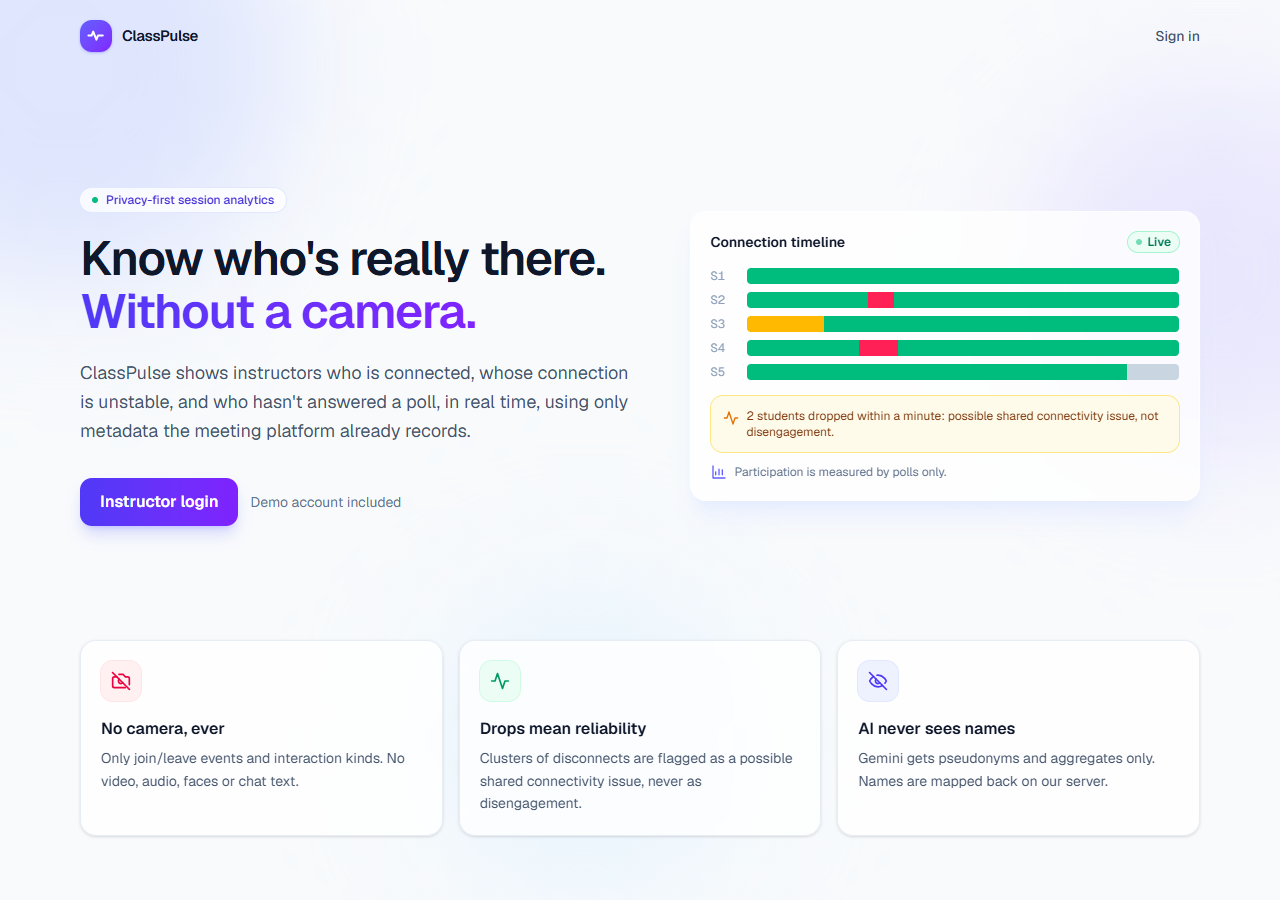
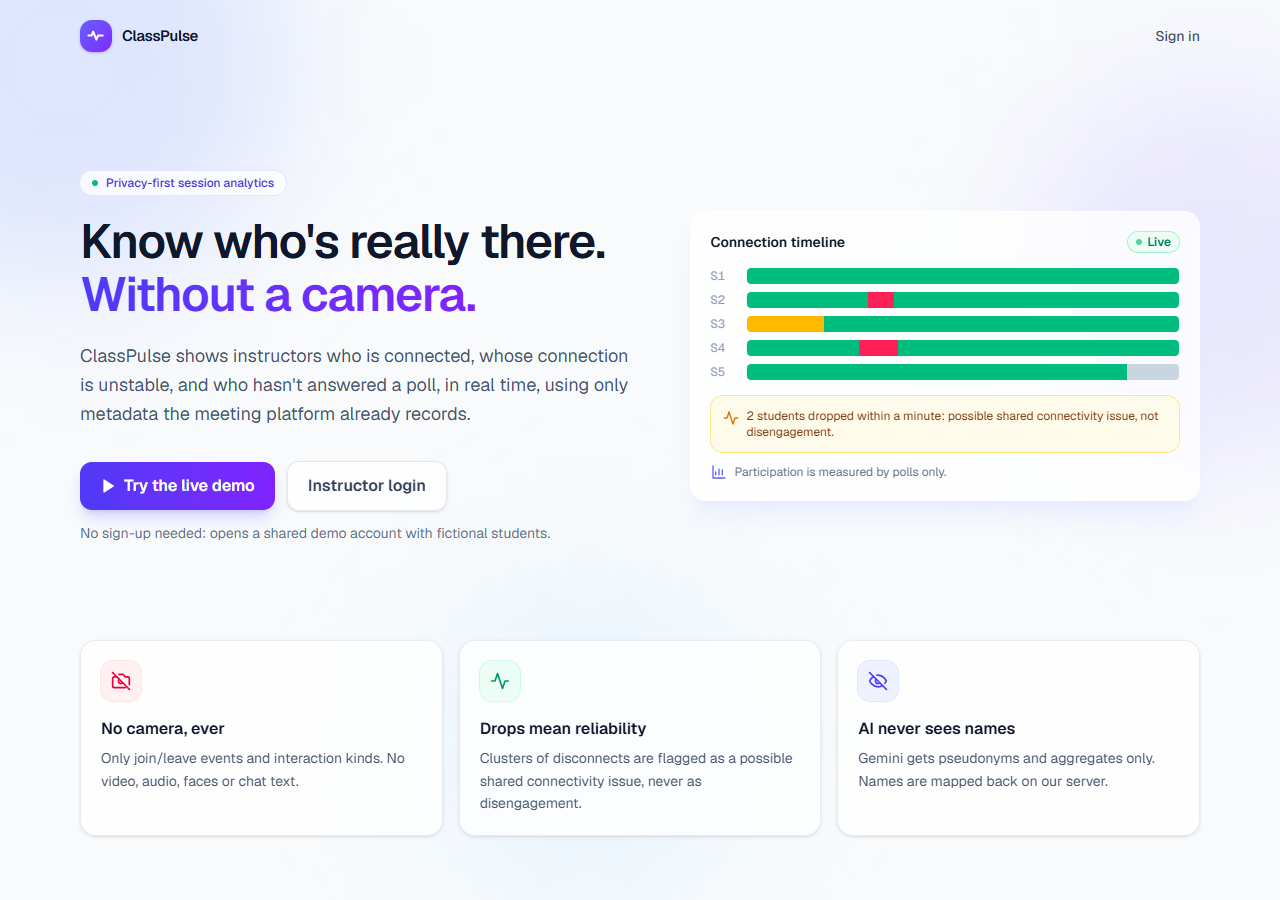
feat: one-click "Try the live demo" sign-in for judges
- demoLogin server action signs in as the shared demo instructor using
  server-only DEMO_INSTRUCTOR_* env vars (demo mode only); the password is
  never sent to the browser
- "Try the live demo" button on the landing page and the login page
- Sign out now uses local scope, so one visitor signing out of the shared
  demo account doesn't log everyone else out
- README: live demo instructions, env var scopes, updated demo flow and
  landing screenshot

Changed region(s): [[0.0625, 0.1867, 0.5, 0.6222]]

diff --git a/app/page.tsx b/app/page.tsx
@@ -1,5 +1,8 @@
 import Link from "next/link";
+import DemoLoginButton from "@/components/DemoLoginButton";
 import { CameraOffIcon, EyeOffIcon, LogoMark, PollIcon, PulseIcon } from "@/components/icons";
+
+const DEMO_MODE = process.env.NEXT_PUBLIC_DEMO_MODE === "true";
 
 const PILLARS = [
   {
@@ -67,14 +70,21 @@ export default function Home() {
             a poll, in real time, using only metadata the meeting platform already records.
           </p>
           <div className="mt-8 flex flex-wrap items-center gap-3">
+            {DEMO_MODE && <DemoLoginButton />}
             <Link
               href="/login"
-              className="inline-flex items-center gap-2 rounded-xl bg-gradient-to-r from-indigo-600 to-violet-600 px-5 py-3 font-semibold text-white shadow-lg shadow-indigo-500/25 transition hover:shadow-xl hover:shadow-indigo-500/30"
+              className={
+                DEMO_MODE
+                  ? "inline-flex items-center gap-2 rounded-xl border border-slate-200 bg-white/80 px-5 py-3 font-semibold text-slate-700 shadow-sm backdrop-blur transition hover:border-indigo-200 hover:text-indigo-700"
+                  : "inline-flex items-center gap-2 rounded-xl bg-gradient-to-r from-indigo-600 to-violet-600 px-5 py-3 font-semibold text-white shadow-lg shadow-indigo-500/25 transition hover:shadow-xl hover:shadow-indigo-500/30"
+              }
             >
               Instructor login
             </Link>
-            <span className="text-sm text-slate-500">Demo account included</span>
           </div>
+          {DEMO_MODE && (
+            <p className="mt-3 text-sm text-slate-500">No sign-up needed: opens a shared demo account with fictional students.</p>
+          )}
         </div>
 
         <div className="rounded-2xl border border-white/60 bg-white/80 p-5 shadow-xl shadow-indigo-100/60 backdrop-blur">

diff --git a/components/DemoLoginButton.tsx b/components/DemoLoginButton.tsx
@@ -1,0 +1,31 @@
+"use client";
+
+// One-click sign-in as the shared demo instructor. Rendered only when NEXT_PUBLIC_DEMO_MODE is "true";
+// the server action checks it again and holds the credentials server-side.
+import { useActionState } from "react";
+import { demoLogin, type LoginState } from "@/app/login/actions";
+import { PlayIcon } from "./icons";
+
+const initialState: LoginState = { error: null };
+
+export default function DemoLoginButton({ className = "" }: { className?: string }) {
+  const [state, formAction, pending] = useActionState(demoLogin, initialState);
+
+  return (
+    <form action={formAction} className={className}>
+      <button
+        type="submit"
+        disabled={pending}
+        className="inline-flex w-full items-center justify-center gap-2 rounded-xl bg-gradient-to-r from-indigo-600 to-violet-600 px-5 py-3 font-semibold text-white shadow-lg shadow-indigo-500/25 transition hover:shadow-xl hover:shadow-indigo-500/30 disabled:opacity-60"
+      >
+        <PlayIcon className="h-4 w-4" fill="currentColor" />
+        {pending ? "Opening the demo…" : "Try the live demo"}
+      </button>
+      {state.error && (
+        <p role="alert" className="mt-2 text-sm text-rose-600">
+          {state.error}
+        </p>
+      )}
+    </form>
+  );
+}

diff --git a/app/login/actions.ts b/app/login/actions.ts
@@ -17,8 +17,30 @@ export async function login(_prev: LoginState, formData: FormData): Promise<Logi
   redirect("/sessions");
 }
 
+/**
+ * One-click sign-in as the shared demo instructor (demo mode only). The credentials are read from
+ * server-only env vars and never sent to the browser.
+ */
+export async function demoLogin(): Promise<LoginState> {
+  const email = process.env.DEMO_INSTRUCTOR_EMAIL;
+  const password = process.env.DEMO_INSTRUCTOR_PASSWORD;
+  if (process.env.NEXT_PUBLIC_DEMO_MODE !== "true" || !email || !password) {
+    return { error: "The live demo isn't available right now." };
+  }
+
+  const supabase = await createClient();
+  const { error } = await supabase.auth.signInWithPassword({ email, password });
+  if (error) {
+    console.error("Demo login failed:", error.message);
+    return { error: "The live demo isn't available right now." };
+  }
+
+  redirect("/sessions");
+}
+
 export async function signOut() {
   const supabase = await createClient();
-  await supabase.auth.signOut();
+  // Local scope: only this browser. The demo account is shared, so a global sign-out would log out everyone.
+  await supabase.auth.signOut({ scope: "local" });
   redirect("/login");
 }

diff --git a/app/login/page.tsx b/app/login/page.tsx
@@ -1,4 +1,5 @@
 import Link from "next/link";
+import DemoLoginButton from "@/components/DemoLoginButton";
 import { LogoMark, ShieldIcon } from "@/components/icons";
 import LoginForm from "./LoginForm";
 
@@ -21,6 +22,17 @@ export default function LoginPage() {
           <div className="mt-6">
             <LoginForm />
           </div>
+          {process.env.NEXT_PUBLIC_DEMO_MODE === "true" && (
+            <>
+              <div className="my-6 flex items-center gap-3 text-xs text-slate-400">
+                <span className="h-px flex-1 bg-slate-200" />
+                or
+                <span className="h-px flex-1 bg-slate-200" />
+              </div>
+              <DemoLoginButton />
+              <p className="mt-2 text-center text-xs text-slate-500">Shared demo account with fictional students.</p>
+            </>
+          )}
         </div>
         <p className="mt-6 flex items-center justify-center gap-1.5 text-xs text-slate-500">
           <ShieldIcon className="h-3.5 w-3.5 text-emerald-600" />

diff --git a/README.md b/README.md
@@ -10,7 +10,7 @@ ClassPulse is a real-time dashboard for instructors teaching live online classes
 
 It uses only metadata the meeting platform already records: join/leave events and the *kind* of interaction (poll response, chat, hand raise). It never touches video, audio, faces or message content, and it never produces an "attention score". Deterministic code detects; Google Gemini supplies the judgement. It connects signals the metrics can't: for example, "the poll's 40% response rate is misleading, because 3 students were disconnected when it opened and 100% of connected students answered". It says what changed since its last briefing and sets a priority. Instructors can also ask it questions about the session. It declines, by design, anything about attention or emotion. A rules-based fallback keeps the core dashboard working without Gemini.
 
-**Live demo:** https://class-pulse-hack-nite.vercel.app
+**Live demo:** https://class-pulse-hack-nite.vercel.app. Click **Try the live demo**: no sign-up or password needed. It opens a shared demo account with 12 fictional students.
 
 ![Live session right after "Storm + poll": four students drop as poll 2 opens, the connectivity alert fires, and the Gemini briefing switches to "Act now", explaining that the 59% overall poll rate understates the 71% rate among connected students](docs/screenshots/live-network-storm.png)
 
@@ -39,7 +39,7 @@ The dashboard shows exactly what crossed the privacy boundary: the pseudonymised
 
 | Post-session report | Landing page |
 |---|---|
-| ![Printable report with the same metrics, the Gemini briefing generated once, and an Export PDF button](docs/screenshots/report.png) | ![Landing page with the headline "Know who's really there. Without a camera." and three privacy pillars](docs/screenshots/landing.png) |
+| ![Printable report with the same metrics, the Gemini briefing generated once, and an Export PDF button](docs/screenshots/report.png) | ![Landing page with the headline "Know who's really there. Without a camera.", a one-click "Try the live demo" button and three privacy pillars](docs/screenshots/landing.png) |
 | A frozen, printable view of the same metrics. **Export PDF** keeps the timeline colours and never splits a row across pages. | |
 
 | Session list |
@@ -139,9 +139,9 @@ Requirements: Node 20+ (tested on Node 24), a Supabase project, and a Gemini API
 | `SUPABASE_SERVICE_ROLE_KEY` | **server-only** | Seed script, simulator and ingest writes. Bypasses RLS. |
 | `GEMINI_API_KEY` | **server-only** | Google AI Studio key |
 | `GEMINI_MODEL` | server | Model id. `gemini-flash-lite-latest` measured ~1 s per briefing, against 3–6 s for `gemini-flash-latest`. |
-| `NEXT_PUBLIC_DEMO_MODE` | public | `true` shows the Live Class Simulator. It's inlined at build time. |
-| `DEMO_INSTRUCTOR_EMAIL` | server (seed) | Demo login email |
-| `DEMO_INSTRUCTOR_PASSWORD` | server (seed) | Demo login password |
+| `NEXT_PUBLIC_DEMO_MODE` | public | `true` shows the Live Class Simulator and the one-click **Try the live demo** button. It's inlined at build time. |
+| `DEMO_INSTRUCTOR_EMAIL` | **server-only** | Demo account email: used by the seed script and one-click demo login |
+| `DEMO_INSTRUCTOR_PASSWORD` | **server-only** | Demo account password: used by the seed script and one-click demo login, and never sent to the browser |
 | `ZOOM_WEBHOOK_SECRET_TOKEN` | **server-only**, optional | Zoom app Secret Token. Without it, the webhook returns 503. |
 
 Server-only keys are read only in `lib/supabase/admin.ts`, `lib/gemini.ts` (both `import "server-only"`) and `scripts/seed.ts`. On Vercel, set all eight under Project → Settings → Environment Variables, and redeploy after changing any of them.
@@ -150,11 +150,14 @@ Server-only keys are read only in `lib/supabase/admin.ts`, `lib/gemini.ts` (both
 
 ## Demo flow
 
-1. `/sessions` → open the ended **CS3003** session: 10/12 connected, 2 unstable (Ravi, Omar), 1 absent, 61% poll response rate, and one reliability alert at minutes 18–22.
-2. **Start live demo** creates a live session 25 minutes in.
-3. **Network storm**: four rows turn red and the alert appears live. The students auto-recover after 20 s.
-4. **AI briefing** shows a badge with the model and latency, e.g. "Gemini · gemini-flash-lite-latest · ~1000 ms".
-5. **Report** → **Export PDF** for the frozen, printable post-session view.
+1. On the landing page, click **Try the live demo**. This signs you in to the shared demo account (demo mode only).
+2. `/sessions` → open the ended **CS3003** session: 10/12 connected, 2 unstable (Ravi, Omar), 1 absent, 61% poll response rate, and one reliability alert at minutes 18–22.
+3. **Start live demo** creates a live session 25 minutes in.
+4. **Storm + poll**: four rows turn red, the connectivity alert appears live, and a poll opens while those students are disconnected. Within about 2 s the AI briefing switches to **Act now**, says what changed, and explains why the overall poll rate understates responses from connected students. The students auto-recover after 20 s.
+5. **What Gemini sees** shows the exact pseudonymised input and output. **Ask about this session** answers questions with evidence and declines ones about attention or emotion.
+6. **Report** → **Export PDF** for the frozen, printable post-session view.
+
+The demo account is shared: other visitors' live demo sessions appear in the list too. `npm run seed` resets it to the single CS3003 session.
 
 ---
 
